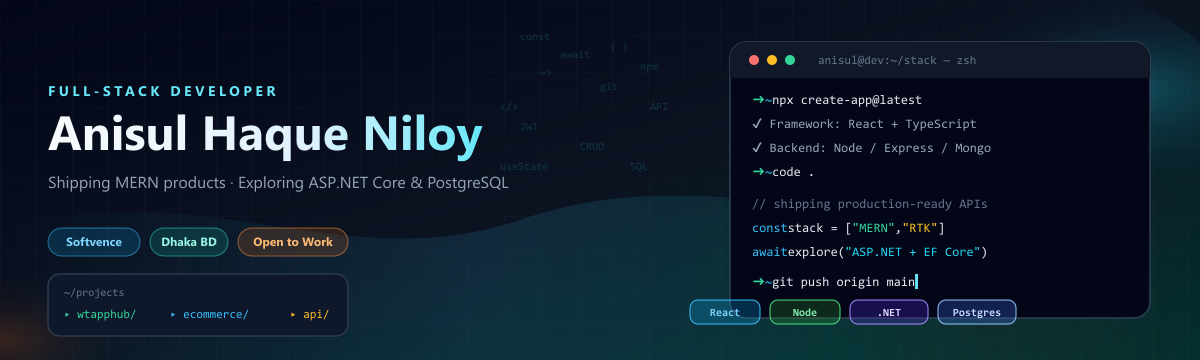
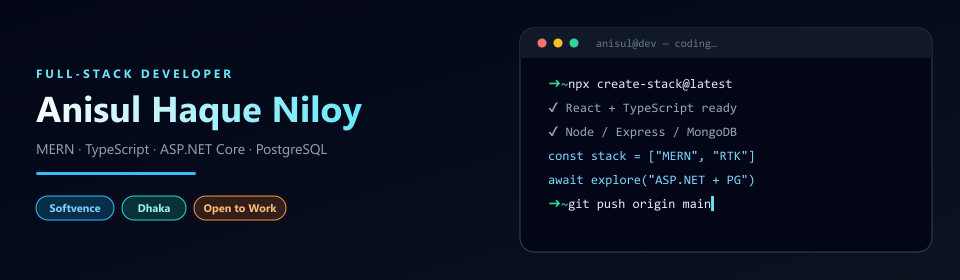
Fix profile animations with verified coding GIFs.
Replace the broken Giphy placeholder, add an animated terminal banner, and point About Me at a working developer GIF plus typing SVGs.

diff --git a/scripts/generate-banner-gif.js b/scripts/generate-banner-gif.js
@@ -1,0 +1,103 @@
+const fs = require('fs');
+const path = require('path');
+const sharp = require('sharp');
+const GIFEncoder = require('gif-encoder-2');
+
+const W = 960;
+const H = 280;
+const DELAY = 90;
+
+const scenes = [
+  '➜ ~ npx create-stack@latest',
+  '✔ React + TypeScript ready',
+  '✔ Node / Express / MongoDB',
+  'const stack = ["MERN", "RTK"]',
+  'await explore("ASP.NET + PG")',
+  '➜ ~ git push origin main',
+];
+
+function esc(s) {
+  return s.replace(/&/g, '&amp;').replace(/</g, '&lt;').replace(/>/g, '&gt;');
+}
+
+function svg(shown, cursorOn) {
+  const rows = scenes.slice(0, shown).map((t, i) => {
+    const y = 88 + i * 24;
+    const cur = i === shown - 1 && cursorOn ? '<tspan fill="#67E8F9">▍</tspan>' : '';
+    let fill = '#E2E8F0';
+    if (t.startsWith('✔')) fill = '#94A3B8';
+    if (t.startsWith('➜')) fill = '#E2E8F0';
+    if (t.startsWith('const') || t.startsWith('await')) fill = '#7DD3FC';
+    const prefix = t.startsWith('➜')
+      ? `<tspan fill="#34D399">➜</tspan><tspan fill="#38BDF8"> ~ </tspan><tspan fill="#E2E8F0">${esc(t.slice(4))}</tspan>`
+      : `<tspan fill="${fill}">${esc(t)}</tspan>`;
+    return `<text x="548" y="${y}" font-family="Consolas, Menlo, monospace" font-size="13">${prefix}${cur}</text>`;
+  }).join('');
+
+  return `<?xml version="1.0" encoding="UTF-8"?>
+<svg xmlns="http://www.w3.org/2000/svg" width="${W}" height="${H}" viewBox="0 0 ${W} ${H}">
+  <defs>
+    <linearGradient id="bg" x1="0" y1="0" x2="1" y2="1">
+      <stop offset="0%" stop-color="#020617"/>
+      <stop offset="100%" stop-color="#0B1220"/>
+    </linearGradient>
+    <linearGradient id="title" x1="0" y1="0" x2="1" y2="0">
+      <stop offset="0%" stop-color="#F8FAFC"/>
+      <stop offset="100%" stop-color="#67E8F9"/>
+    </linearGradient>
+  </defs>
+  <rect width="${W}" height="${H}" fill="url(#bg)"/>
+  <text x="36" y="78" fill="#67E8F9" font-family="Segoe UI, Arial, sans-serif" font-size="12" letter-spacing="3" font-weight="700">FULL-STACK DEVELOPER</text>
+  <text x="36" y="122" fill="url(#title)" font-family="Segoe UI, Arial, sans-serif" font-size="36" font-weight="800">Anisul Haque Niloy</text>
+  <text x="36" y="154" fill="#94A3B8" font-family="Segoe UI, Arial, sans-serif" font-size="14">MERN · TypeScript · ASP.NET Core · PostgreSQL</text>
+  <rect x="36" y="172" width="160" height="3" rx="2" fill="#38BDF8"/>
+  <rect x="36" y="196" width="78" height="24" rx="12" fill="#0EA5E9" fill-opacity="0.22" stroke="#38BDF8"/>
+  <text x="75" y="212" text-anchor="middle" fill="#7DD3FC" font-size="11" font-family="Segoe UI, Arial, sans-serif" font-weight="700">Softvence</text>
+  <rect x="122" y="196" width="64" height="24" rx="12" fill="#14B8A6" fill-opacity="0.22" stroke="#2DD4BF"/>
+  <text x="154" y="212" text-anchor="middle" fill="#99F6E4" font-size="11" font-family="Segoe UI, Arial, sans-serif" font-weight="700">Dhaka</text>
+  <rect x="194" y="196" width="92" height="24" rx="12" fill="#F97316" fill-opacity="0.18" stroke="#FB923C"/>
+  <text x="240" y="212" text-anchor="middle" fill="#FDBA74" font-size="11" font-family="Segoe UI, Arial, sans-serif" font-weight="700">Open to Work</text>
+
+  <rect x="520" y="28" width="412" height="224" rx="14" fill="#020617" stroke="#334155"/>
+  <rect x="520" y="28" width="412" height="30" rx="14" fill="#111827"/>
+  <rect x="520" y="46" width="412" height="12" fill="#111827"/>
+  <circle cx="542" cy="43" r="4.5" fill="#F87171"/>
+  <circle cx="558" cy="43" r="4.5" fill="#FBBF24"/>
+  <circle cx="574" cy="43" r="4.5" fill="#34D399"/>
+  <text x="596" y="47" fill="#64748B" font-family="Consolas, Menlo, monospace" font-size="11">anisul@dev — coding…</text>
+  ${rows}
+</svg>`;
+}
+
+async function pixels(s) {
+  const { data } = await sharp(Buffer.from(s)).resize(W, H).ensureAlpha().raw().toBuffer({ resolveWithObject: true });
+  return data;
+}
+
+async function main() {
+  const encoder = new GIFEncoder(W, H);
+  encoder.setDelay(DELAY);
+  encoder.start();
+
+  for (let i = 1; i <= scenes.length; i++) {
+    encoder.addFrame(await pixels(svg(i, true)));
+    encoder.addFrame(await pixels(svg(i, false)));
+    encoder.addFrame(await pixels(svg(i, true)));
+    encoder.addFrame(await pixels(svg(i, false)));
+  }
+  for (let i = 0; i < 8; i++) {
+    encoder.addFrame(await pixels(svg(scenes.length, i % 2 === 0)));
+  }
+
+  encoder.finish();
+  const buf = encoder.out.getData();
+  const outGif = path.join('assets', 'banner.gif');
+  fs.writeFileSync(outGif, buf);
+  console.log('banner.gif bytes', buf.length);
+
+  // compress further via sharp if needed
+  await sharp(Buffer.from(svg(scenes.length, true))).png().toFile('assets/banner.png');
+  console.log('banner.png ready');
+}
+
+main().catch((e) => { console.error(e); process.exit(1); });

diff --git a/README.md b/README.md
@@ -1,9 +1,9 @@
 <div align="center">
-  <img src="https://raw.githubusercontent.com/AnisulHaqueNiloy/AnisulHaqueNiloy/main/assets/banner.png" width="100%" alt="Anisul Haque Niloy — Full-Stack Developer banner" />
+  <img src="https://raw.githubusercontent.com/AnisulHaqueNiloy/AnisulHaqueNiloy/main/assets/banner.gif" width="100%" alt="Animated coding banner — Anisul Haque Niloy" />
 </div>
 
 <div align="center">
-  <img src="https://readme-typing-svg.demolab.com?font=Fira+Code&weight=600&size=26&pause=1000&color=38BDF8&center=true&vCenter=true&width=780&height=55&lines=Shipping+production-ready+web+products;React+%7C+Node+%7C+MongoDB+%7C+TypeScript;Exploring+ASP.NET+Core+%26+PostgreSQL" alt="Typing animation" />
+  <img src="https://readme-typing-svg.demolab.com?font=Fira+Code&weight=600&size=24&pause=900&color=38BDF8&center=true&vCenter=true&width=820&height=50&lines=const+dev+%3D+%22Full-Stack+Developer%22%3B;stack+%3D+%5B%22React%22%2C+%22Node%22%2C+%22MongoDB%22%5D%3B;exploring+%3D+%5B%22ASP.NET+Core%22%2C+%22PostgreSQL%22%2C+%22EF+Core%22%5D%3B" alt="Code typing animation" />
 </div>
 
 <br />
@@ -58,7 +58,11 @@ const anisul = {
 </td>
 <td width="30%" valign="top" align="center">
 
-<img src="https://raw.githubusercontent.com/AnisulHaqueNiloy/AnisulHaqueNiloy/main/assets/coding.gif" width="230" alt="Coding animation" />
+<img src="https://raw.githubusercontent.com/TheDudeThatCode/TheDudeThatCode/master/Assets/Developer.gif" width="220" alt="Developer coding animation" />
+
+<br />
+
+<img src="https://readme-typing-svg.demolab.com?font=Fira+Code&size=14&pause=800&color=34D399&center=true&vCenter=true&width=240&height=40&lines=npm+run+dev;git+commit+-m+%22ship%22;dotnet+build" alt="Mini terminal typing" />
 
 <br />
 
